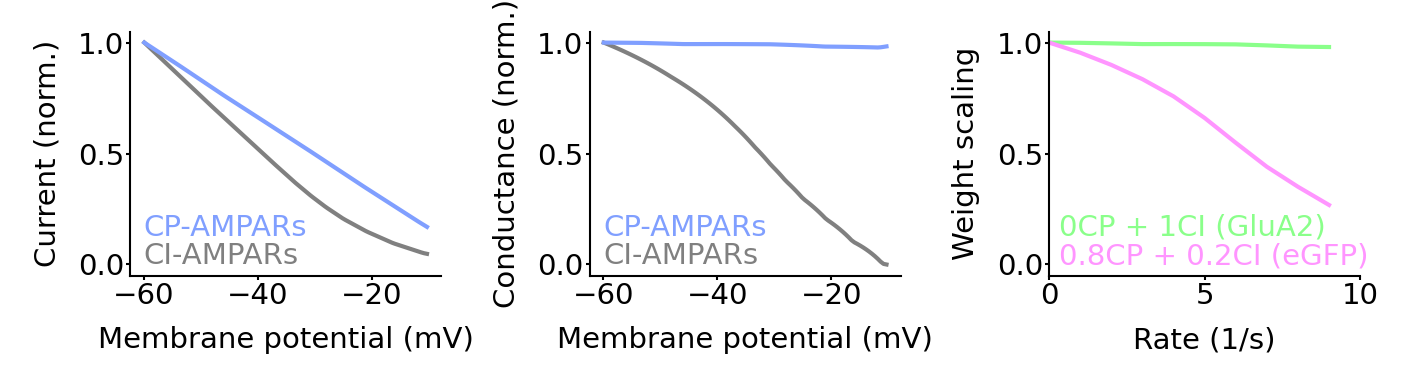
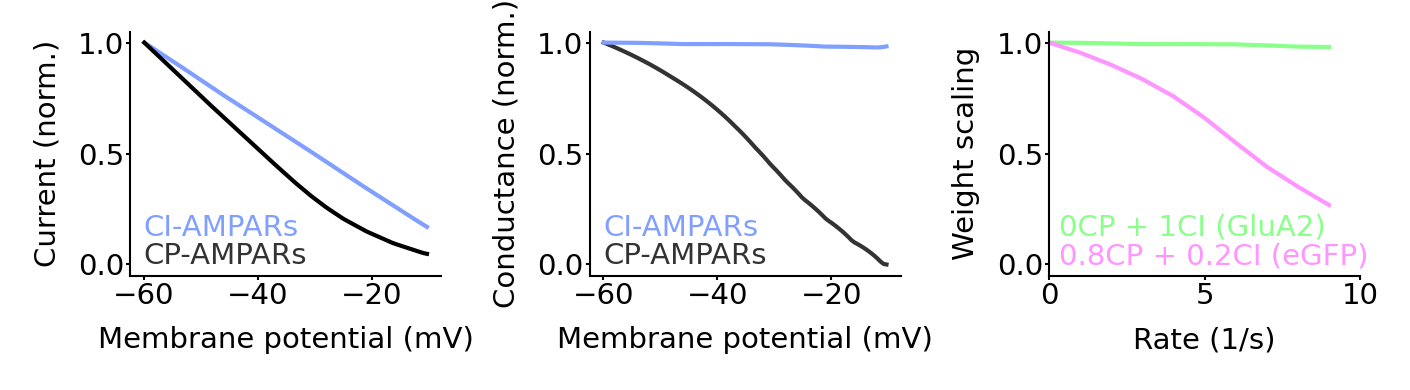
Consistent color code CI/CP

diff --git a/scripts/fig26_rectification.py b/scripts/fig26_rectification.py
@@ -16,10 +16,21 @@ from src.utils import write_excel
 sns.set_context("poster")
 sns.set_palette("colorblind")
 plt.style.use(stylesheet)
+
+# WT cells from Lu et al,: calcium-impermeable
+# KO cells: calcium-permeable
+colors = {
+    "CI-AMPAR": blue,
+    "CP-AMPAR": "black",
+    "WT": blue,
+    "KO": "black",
+}
+alphas = {"CI-AMPAR": 1.0, "CP-AMPAR": 0.8, "WT": 1.0, "KO": 0.8}
+
 # collecting/saving data:
 save_path = "results/Source Data Extended Data Fig. 26.xlsx"
 data_frames = {}
-for panel in ['a', 'b', 'c', 'd', 'e', 'f']:
+for panel in ["a", "b", "c", "d", "e", "f"]:
     data_frames[panel] = pd.DataFrame()
 
 # Load the data
@@ -43,33 +54,45 @@ M_WT = np.max(I_WT / (V_reversal - voltage))
 # Make the figure
 fig, ax = plt.subplots(1, 3, figsize=(4.7, 1.3), sharey=False)
 # The data
-ax[0].text(-60, 0.0, "CI-AMPARs", color="grey")
-ax[0].text(-60, 0.13, "CP-AMPARs", color=blue)
-ax[0].plot(voltage, I_KO, color="grey")
-ax[0].plot(voltage, I_WT, color=blue)
+ax[0].text(-60, 0.13, "CI-AMPARs", color=colors["CI-AMPAR"], alpha=alphas["CI-AMPAR"])
+ax[0].text(-60, 0, "CP-AMPARs", color=colors["CP-AMPAR"], alpha=alphas["CP-AMPAR"])
+ax[0].plot(voltage, I_WT, color=colors["WT"], alpha=alphas["WT"])
+ax[0].plot(voltage, I_KO, color=colors["KO"], alpha=alphas["WT"])
 ax[0].set_xlabel("Membrane potential (mV)")
 ax[0].set_ylabel("Current (norm.)")
 ax[0].set_ylim([-0.05, 1.05])
 ax[0].set_xticks([-60, -40, -20])
 ax[0].set_yticks([0, 0.5, 1])
-data_frames['a']['voltage'] = np.array(voltage)
-data_frames['a']['Current KO'] = np.array(I_KO)
-data_frames['a']['Current WT'] = np.array(I_WT)
+data_frames["a"]["voltage"] = np.array(voltage)
+data_frames["a"]["Current KO"] = np.array(I_KO)
+data_frames["a"]["Current WT"] = np.array(I_WT)
 
 
 # Estimated conductance
-ax[1].text(-60, 0.0, "CI-AMPARs", color="grey")
-ax[1].text(-60, 0.13, "CP-AMPARs", color=blue)
-ax[1].plot(voltage, (I_KO / (V_reversal - voltage) - m) / (M - m), color="grey")
-ax[1].plot(voltage, I_WT / (V_reversal - voltage) / M_WT, color=blue)
+ax[1].text(-60, 0.13, "CI-AMPARs", color=colors["CI-AMPAR"], alpha=alphas["CI-AMPAR"])
+ax[1].text(-60, 0, "CP-AMPARs", color=colors["CP-AMPAR"], alpha=alphas["CP-AMPAR"])
+ax[1].plot(
+    voltage,
+    (I_KO / (V_reversal - voltage) - m) / (M - m),
+    color=colors["KO"],
+    alpha=alphas["KO"],
+)
+ax[1].plot(
+    voltage,
+    I_WT / (V_reversal - voltage) / M_WT,
+    color=colors["WT"],
+    alpha=alphas["WT"],
+)
 ax[1].set_xlabel("Membrane potential (mV)")
 ax[1].set_ylabel("Conductance (norm.)")
 ax[1].set_ylim([-0.05, 1.05])
 ax[1].set_xticks([-60, -40, -20])
 ax[1].set_yticks([0, 0.5, 1])
-data_frames['b']['voltage'] = np.array(voltage)
-data_frames['b']['Conductance KO'] =  np.array((I_KO / (V_reversal - voltage) - m) / (M - m))
-data_frames['b']['Conductance WT'] = np.array(I_WT / (V_reversal - voltage) / M_WT)
+data_frames["b"]["voltage"] = np.array(voltage)
+data_frames["b"]["Conductance KO"] = np.array(
+    (I_KO / (V_reversal - voltage) - m) / (M - m)
+)
+data_frames["b"]["Conductance WT"] = np.array(I_WT / (V_reversal - voltage) / M_WT)
 
 # Scaling functions
 labels = ["0CP + 1CI (GluA2)", "0.8CP + 0.2CI (eGFP)"]
@@ -90,9 +113,13 @@ ax[2].plot(
     label=labels[1],
     color=colors[1],
 )
-data_frames['c']['rate'] = plot_rates
-data_frames['c'][f'scale {labels[0]}'] = scaling_fn(plot_rates, 0, df, I_WT, I_KO, M_WT, M, m)
-data_frames['c'][f'scale {labels[1]}'] = scaling_fn(plot_rates, 0.8, df, I_WT, I_KO, M_WT, M, m)
+data_frames["c"]["rate"] = plot_rates
+data_frames["c"][f"scale {labels[0]}"] = scaling_fn(
+    plot_rates, 0, df, I_WT, I_KO, M_WT, M, m
+)
+data_frames["c"][f"scale {labels[1]}"] = scaling_fn(
+    plot_rates, 0.8, df, I_WT, I_KO, M_WT, M, m
+)
 ax[2].set_xlabel("Rate (1/s)")
 ax[2].set_ylabel("Weight scaling")
 ax[2].set_ylim([-0.05, 1.05])
@@ -110,10 +137,10 @@ for alpha, color in zip([0, 0.8], [green, pink]):
     )
     ax[0].plot(stimuli * 180 / np.pi, rates[-1], color=color)
     ax[1].plot(stimuli * 180 / np.pi, rates[-1] / rates[-1].max(), color=color)
-    data_frames['d']['stimulus'] = stimuli
-    data_frames['d']['rate'] = rates[-1]
-    data_frames['e']['stimulus'] = stimuli
-    data_frames['e']['rate (norm)'] = rates[-1] / rates[-1].max()
+    data_frames["d"]["stimulus"] = stimuli
+    data_frames["d"]["rate"] = rates[-1]
+    data_frames["e"]["stimulus"] = stimuli
+    data_frames["e"]["rate (norm)"] = rates[-1] / rates[-1].max()
 
 ax[0].set_ylim([0, 7])
 ax[1].set_ylim([0, 1.1])
@@ -132,8 +159,8 @@ for i, alpha in enumerate(alphas):
         ax[2].scatter(alpha, osis[i], color=pink)
         print(f"OSI eGFP: {osis[i]:0.2f}")
 ax[2].plot(alphas, osis, color="grey")
-data_frames['f']['alpha'] = alphas
-data_frames['f']['OSI'] = osis
+data_frames["f"]["alpha"] = alphas
+data_frames["f"]["OSI"] = osis
 
 ax[2].set_xlabel(r"CP-AMPAR coefficient $\alpha$")
 ax[-1].set_ylim([0.3, 0.6])
@@ -150,4 +177,4 @@ ax[1].set_ylabel("Rate (norm.)")
 
 fig.tight_layout()
 plt.savefig(figdir + "fig26def_rectification.png", dpi=300)
-write_excel(save_path, data_frames) # save data
+write_excel(save_path, data_frames)  # save data
